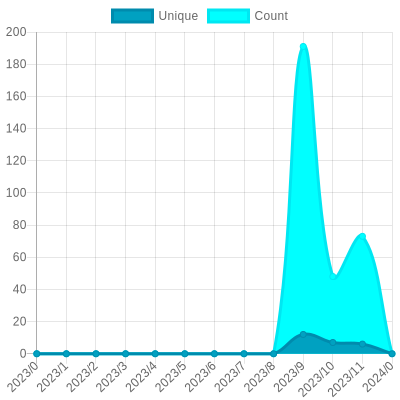
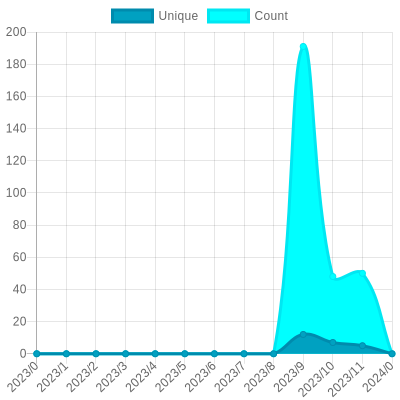
Update views

Changed region(s): [[0.81, 0.57, 0.99, 0.87], [0.84, 0.84, 0.93, 0.87]]

diff --git a/readme/552123895/year.md b/readme/552123895/year.md
@@ -34,10 +34,10 @@
 			<code>2022/12/1</code>
 		</td>
 		<td>
-			<code>6</code>
+			<code>5</code>
 		</td>
 		<td>
-			<code>73</code>
+			<code>50</code>
 		</td>
 	</tr>
 	<tr>
@@ -164,7 +164,7 @@
 </table>
 
 </details>
-<small><i>Last updated on 2023/1/4 6:10 AM UTC</i></small>
+<small><i>Last updated on 2023/1/4 12:14 PM UTC</i></small>
 
 ## ✂Copy and 📋 Paste
 ### SVG Badge

diff --git a/README.md b/README.md
@@ -53,7 +53,7 @@ The project created and maintained by [gayanvoice](https://github.com/gayanvoice
 	</tr>
 </table>
 
-<small><i>Last updated on 2023/1/4 6:10 AM UTC</i></small>
+<small><i>Last updated on 2023/1/4 12:14 PM UTC</i></small>
 
 ## ✂Copy and 📋 Paste
 ### Total Views Badge

diff --git a/readme/546723876/year.md b/readme/546723876/year.md
@@ -164,7 +164,7 @@
 </table>
 
 </details>
-<small><i>Last updated on 2023/1/4 6:10 AM UTC</i></small>
+<small><i>Last updated on 2023/1/4 12:14 PM UTC</i></small>
 
 ## ✂Copy and 📋 Paste
 ### SVG Badge
